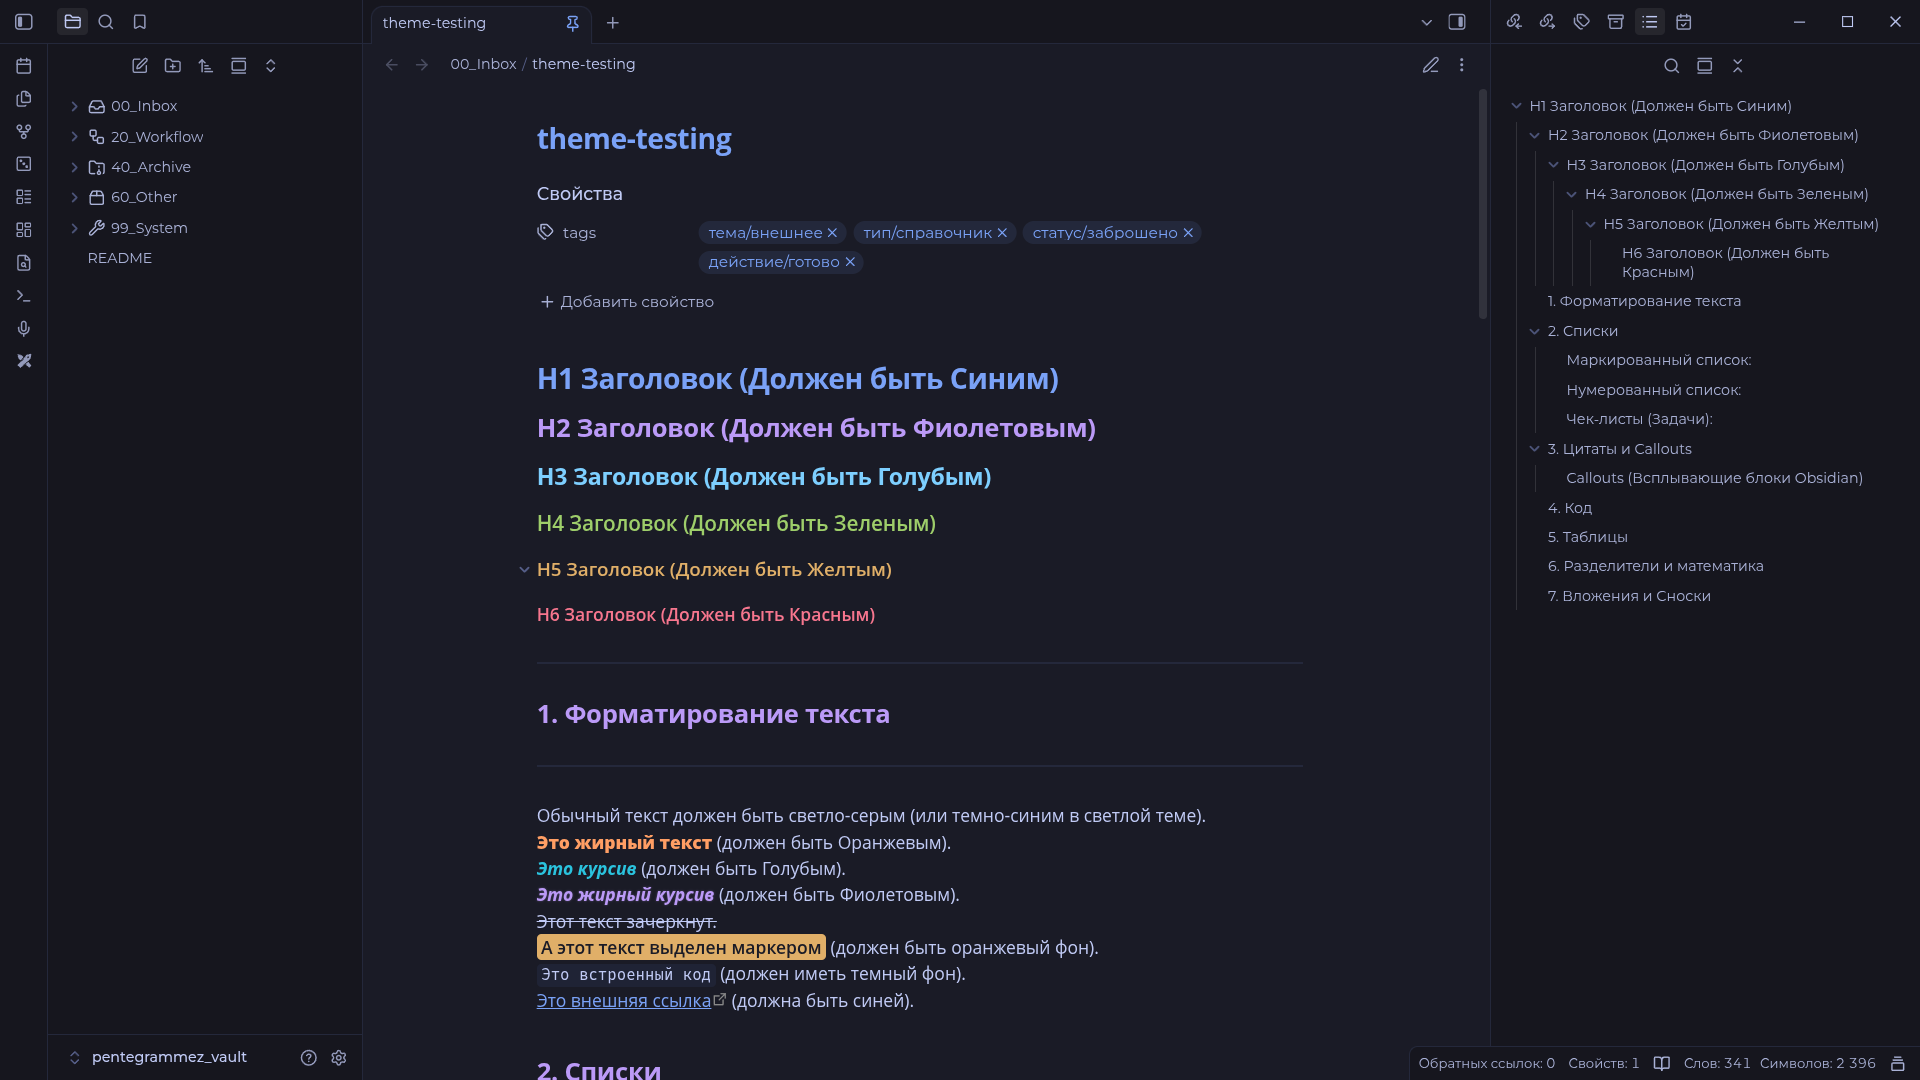
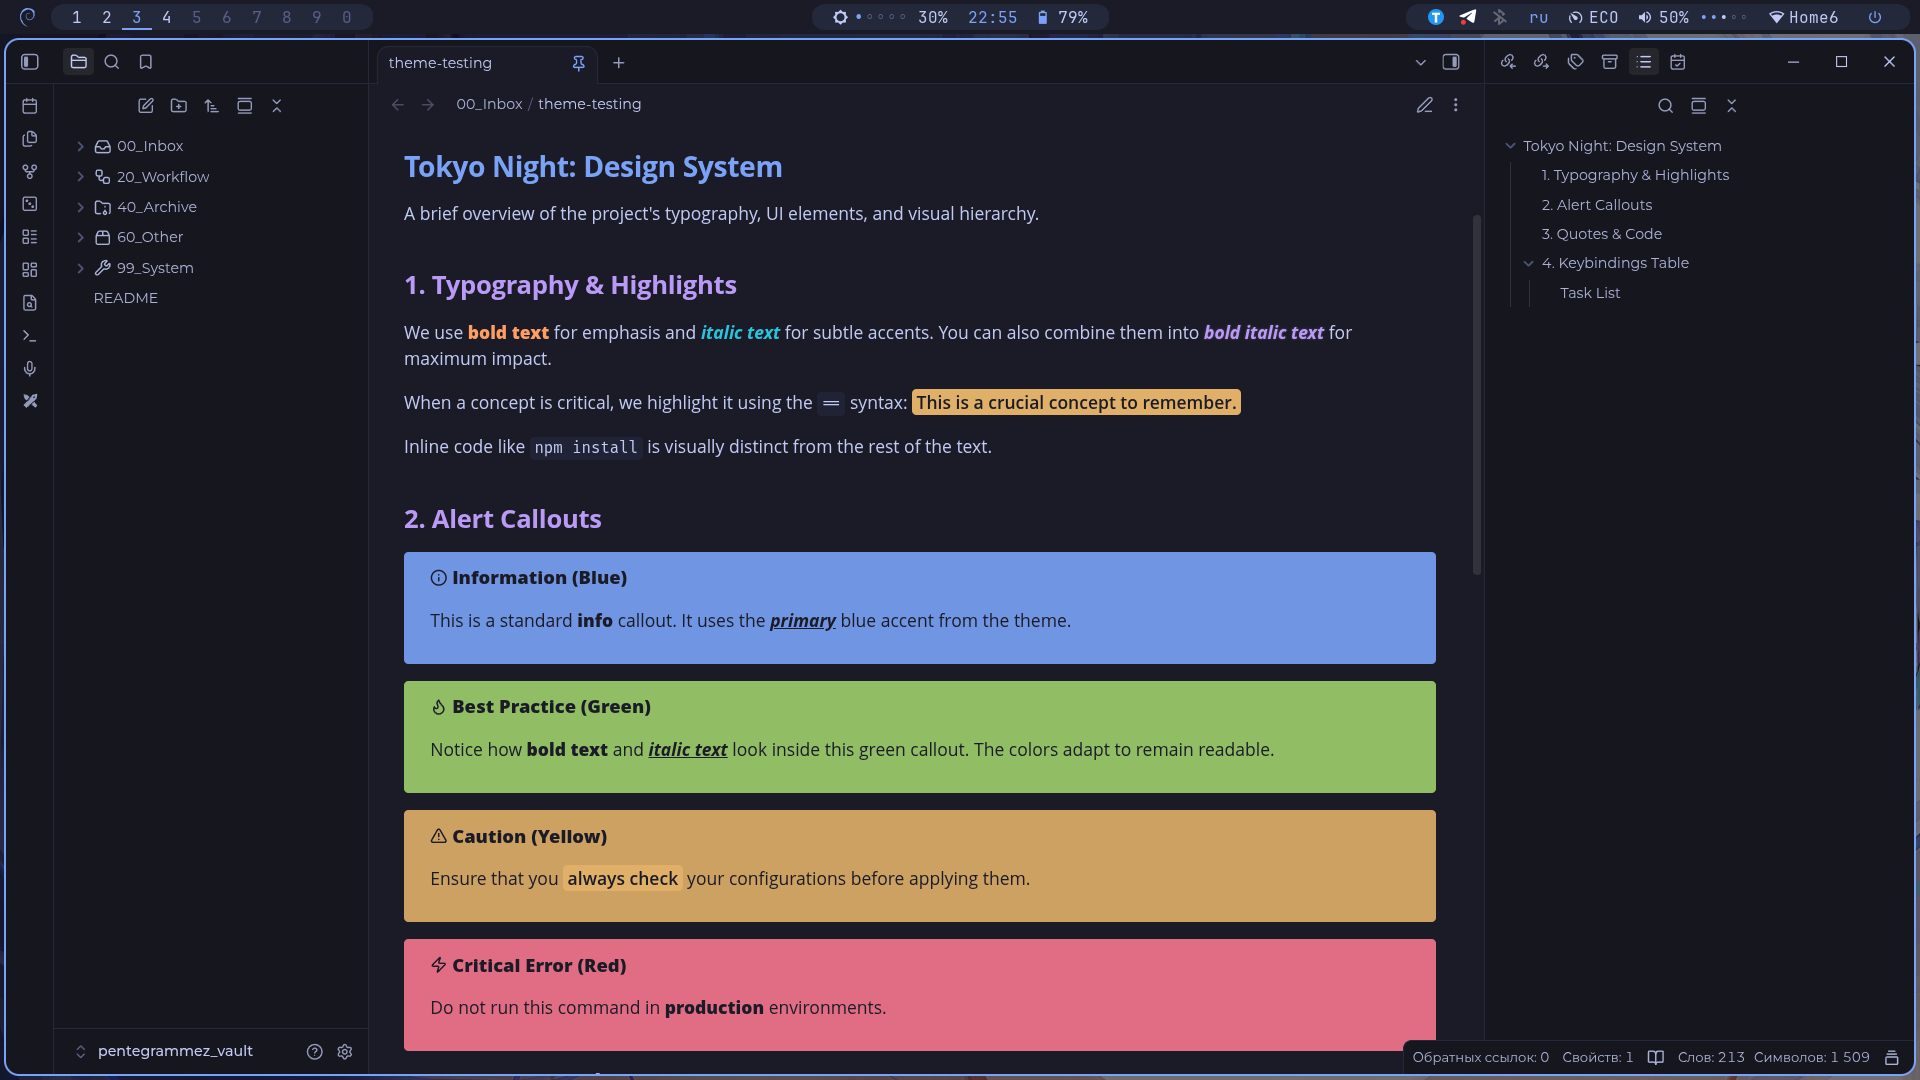
Bug fix and new screenshots

diff --git a/theme.css b/theme.css
@@ -344,6 +344,36 @@ mark {
 .cm-s-obsidian .HyperMD-codeblock-end { border-bottom-left-radius: 4px; border-bottom-right-radius: 4px; border-bottom: 1px solid var(--background-modifier-border); }
 
 /* =========================================
+   ФИКС ЖИРНОГО И КУРСИВА В CALLOUTS
+   ========================================= */
+
+/* 1. Жирный текст внутри Callout */
+.callout strong, 
+.callout .cm-strong {
+	color: inherit !important; /* Берем цвет текста от Callout (темный или светлый) */
+	font-weight: 900 !important; /* Делаем максимально жирным, чтобы отличался */
+}
+
+/* 2. Курсив внутри Callout */
+.callout em, 
+.callout .cm-em {
+	color: inherit !important;
+	font-weight: bold !important; /* Добавляем жирность, как ты и хотел для курсива */
+	text-decoration: underline !important; /* Подчеркиваем для 100% читаемости */
+}
+
+/* 3. Жирный курсив внутри Callout */
+.callout strong em, 
+.callout em strong,
+.callout .cm-strong.cm-em,
+.callout .cm-em.cm-strong {
+	color: inherit !important;
+	font-weight: 900 !important;
+	text-decoration: underline !important;
+	text-shadow: none !important; /* Убираем свечение, оно тут лишнее */
+}
+
+/* =========================================
    05. ДОПОЛНИТЕЛЬНЫЕ ЭЛЕМЕНТЫ
    ========================================= */
 

diff --git a/README.md b/README.md
@@ -8,8 +8,6 @@ This theme is a logical continuation of my desktop environment setup. If you wan
 
 ![Screenshot 1](screenshot1.png)
 ![Screenshot 2](screenshot2.png)
-![Screenshot 3](screenshot3.png)
-![Screenshot 4](screenshot4.png)
 
 ## ✨ Features
 

diff --git a/README.ru.md b/README.ru.md
@@ -8,8 +8,6 @@
 
 ![Скриншот 1](screenshot1.png)
 ![Скриншот 2](screenshot2.png)
-![Скриншот 3](screenshot3.png)
-![Скриншот 4](screenshot4.png)
 
 ## ✨ Особенности
 
